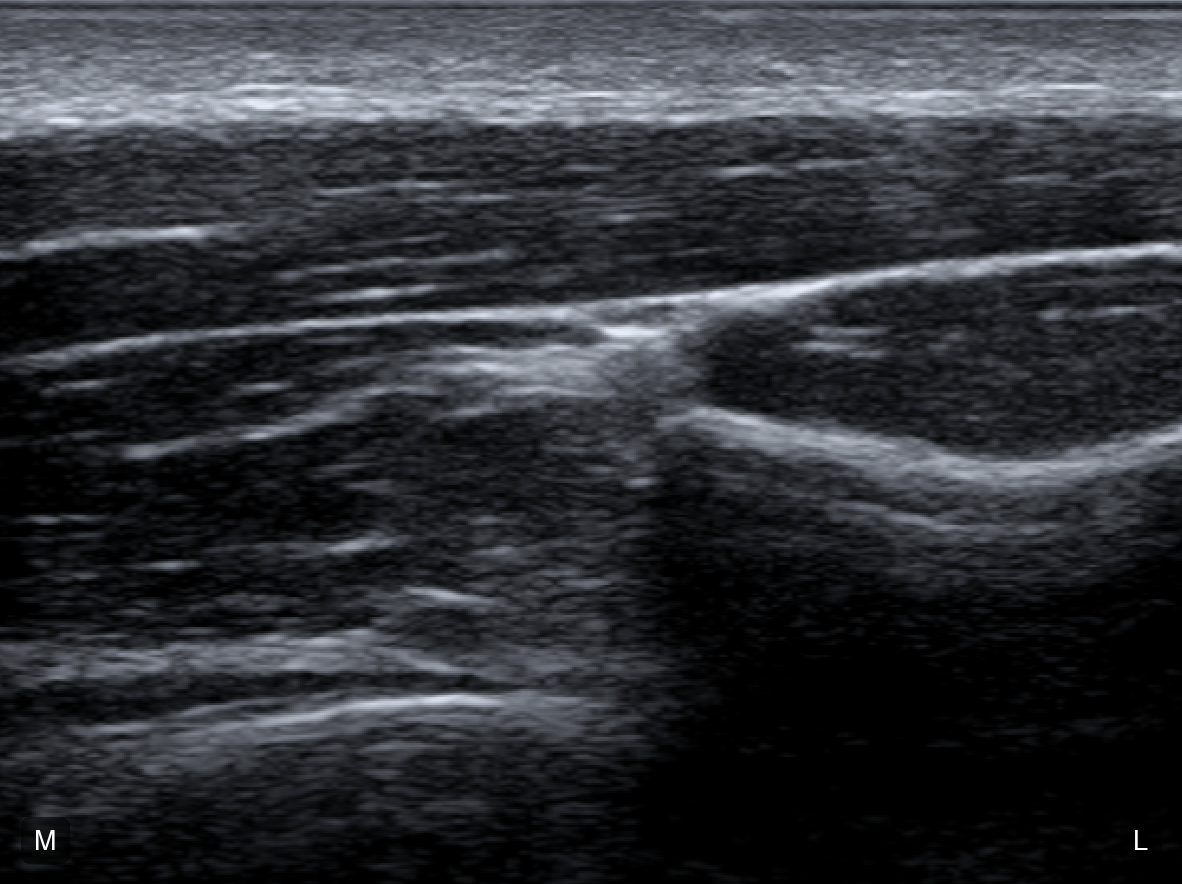
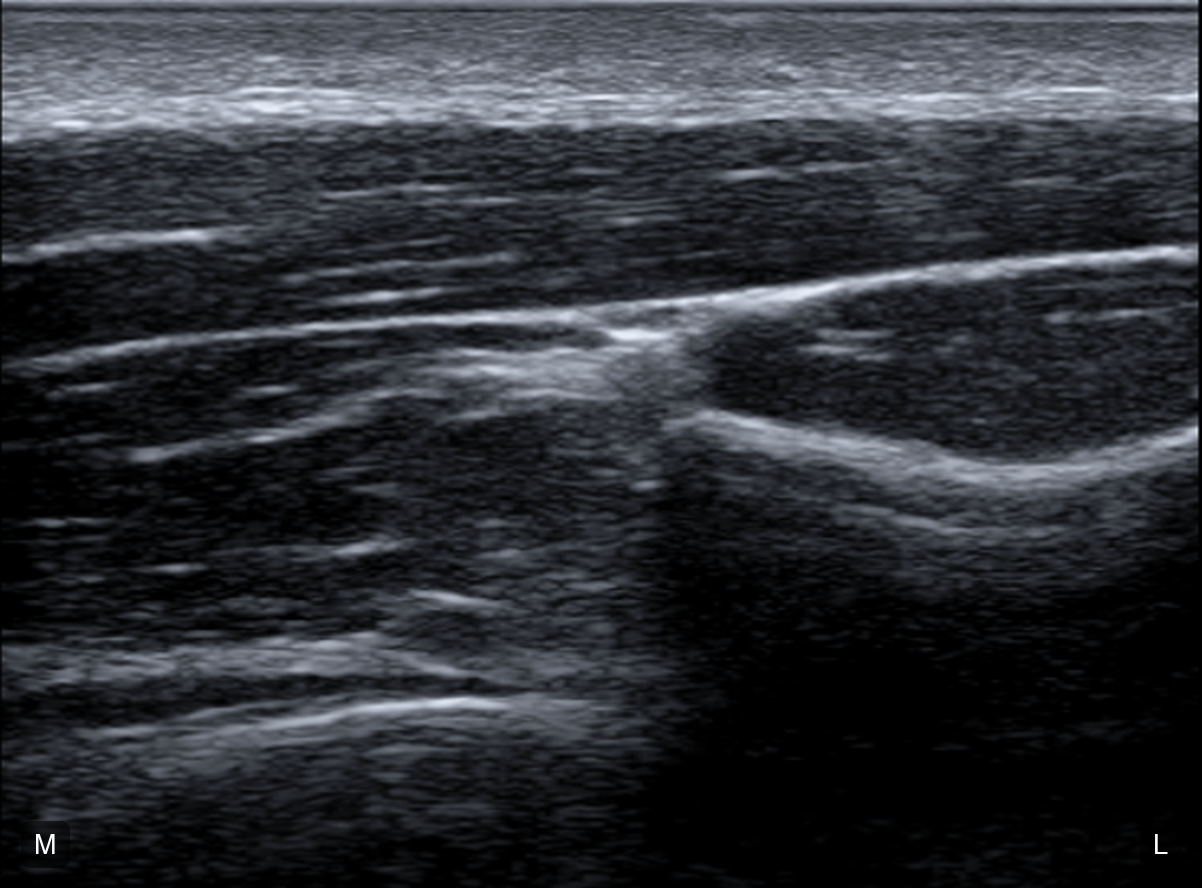
ecografia-muscular: corrige el corte del levator scapulae
Base nueva sin el rotulo del equipo y rotulacion corregida:
1 trapezius, 2 rhomboideus minor, 3 levator scapulae, 4 escapula.

diff --git a/ecografia-muscular/index.html b/ecografia-muscular/index.html
@@ -120,10 +120,10 @@ const SECTIONS=[
  ]},
  {id:"levator-scapulae", title:"Levator scapulae (cintura escapular)", img:"levator-scapulae.png",
   orient:"Lado izquierdo de la imagen: medial · lado derecho: lateral", items:[
-  {n:1,la:"Trapezius",x:39.3,y:26},
-  {n:2,la:"Levator scapulae",x:18.8,y:54.2},
-  {n:3,la:"Supraspinatus",x:89,y:44.2},
-  {n:4,es:"Escápula",x:64.6,y:63.3},
+  {n:1,la:"Trapezius",x:54.2,y:22.9},
+  {n:2,la:"Rhomboideus minor",x:20.2,y:58.4},
+  {n:3,la:"Levator scapulae",x:85.9,y:41.7},
+  {n:4,es:"Escápula",x:61,y:58.7},
  ]},
 ];
 const label=d=> d.la ? "<i>"+d.la+"</i>"+(d.sfx||"") : d.es;
